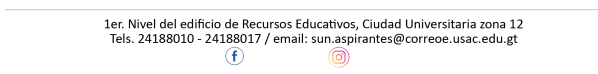
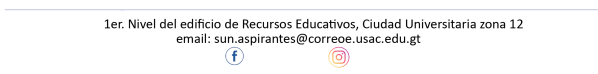
feat: actualiza texto para asignación PAP  de2064

Changed region(s): [[0.1806, 0.4324, 0.8729, 0.6216]]

diff --git a/assets/js/asignacionPAP.js b/assets/js/asignacionPAP.js
@@ -120,7 +120,7 @@ function verificarAsignacion() {
             pdf.addImage(imgRedes, 'jpeg', 65, 720, 0, 0);
             pdf.setFontSize(13).setFont(undefined, 'bold');
             pdf.text(100, 75, "CONSTANCIA DE INSCRIPCIÓN PAP DE CONOCIMIENTOS BÁSICOS");
-            pdf.text(240, 90, "2026 (Primer Semestre)");
+            pdf.text(240, 90, "2026 (Segundo Semestre)");
             pdf.setFontSize(12).setFont(undefined, 'normal');
 
             if (novCarne.length === 10) {
@@ -144,12 +144,12 @@ function verificarAsignacion() {
             pdf.setFontSize(15).setFont(undefined, 'normal');
             pdf.text(40,410,"A continuación debes ingresar al siguiente enlace para completar tu inscripción");
             pdf.setFontSize(15).setFont(undefined, 'bold');
-            pdf.textWithLink('https://forms.gle/frvvP348yr5EBFRJ6', 40, 425, {url: 'https://forms.gle/frvvP348yr5EBFRJ6'});
+            pdf.textWithLink('https://forms.gle/MHxGJUCUUzaTYrJ56', 40, 425, {url: 'https://forms.gle/MHxGJUCUUzaTYrJ56'});
 
             pdf.setFontSize(15).setFont(undefined, 'normal');
-            pdf.text(40,460, "Los estudiantes que se hayan inscrito para jornada vespertina/nocturna\n" +
-              "(plan diario) y jornada sabatina deben ingresar a su correo registrado\n" +
-              "e ingresar a los enlaces respectivos para su clase virtual.");
+            pdf.text(40,460, "Recibirás tu código de acceso al aula virutal en la cuenta\n" +
+              "de correo electrónico registrada anterior.\n" +
+              "");
 
             pdf.setFontSize(14).setFont(undefined, 'bold');
             //pdf.text(40,615,"- Es indispensable el envío de tus datos personales y papelería a través del \n formulario en caso no lo realices, tu inscripción quedará sin efecto.");
@@ -160,7 +160,7 @@ function verificarAsignacion() {
             pdf.setFontSize(14).setFont(undefined, 'bold');
             pdf.text(40, 540, "Inicio de clases: ");
             pdf.setFontSize(14).setFont(undefined, 'normal');
-            pdf.text(150,540, "\n Plan Diario 02/02/2026, Plan Sabatino 07/02/2026");
+            pdf.text(150,540, "\n Plan Diario 13/07/2026, Plan Sabatino 11/07/2026");
 
             pdf.text(40, 600, "Dudas comunícate vía\n\n" +
               "Correo electrónico:\n" +
